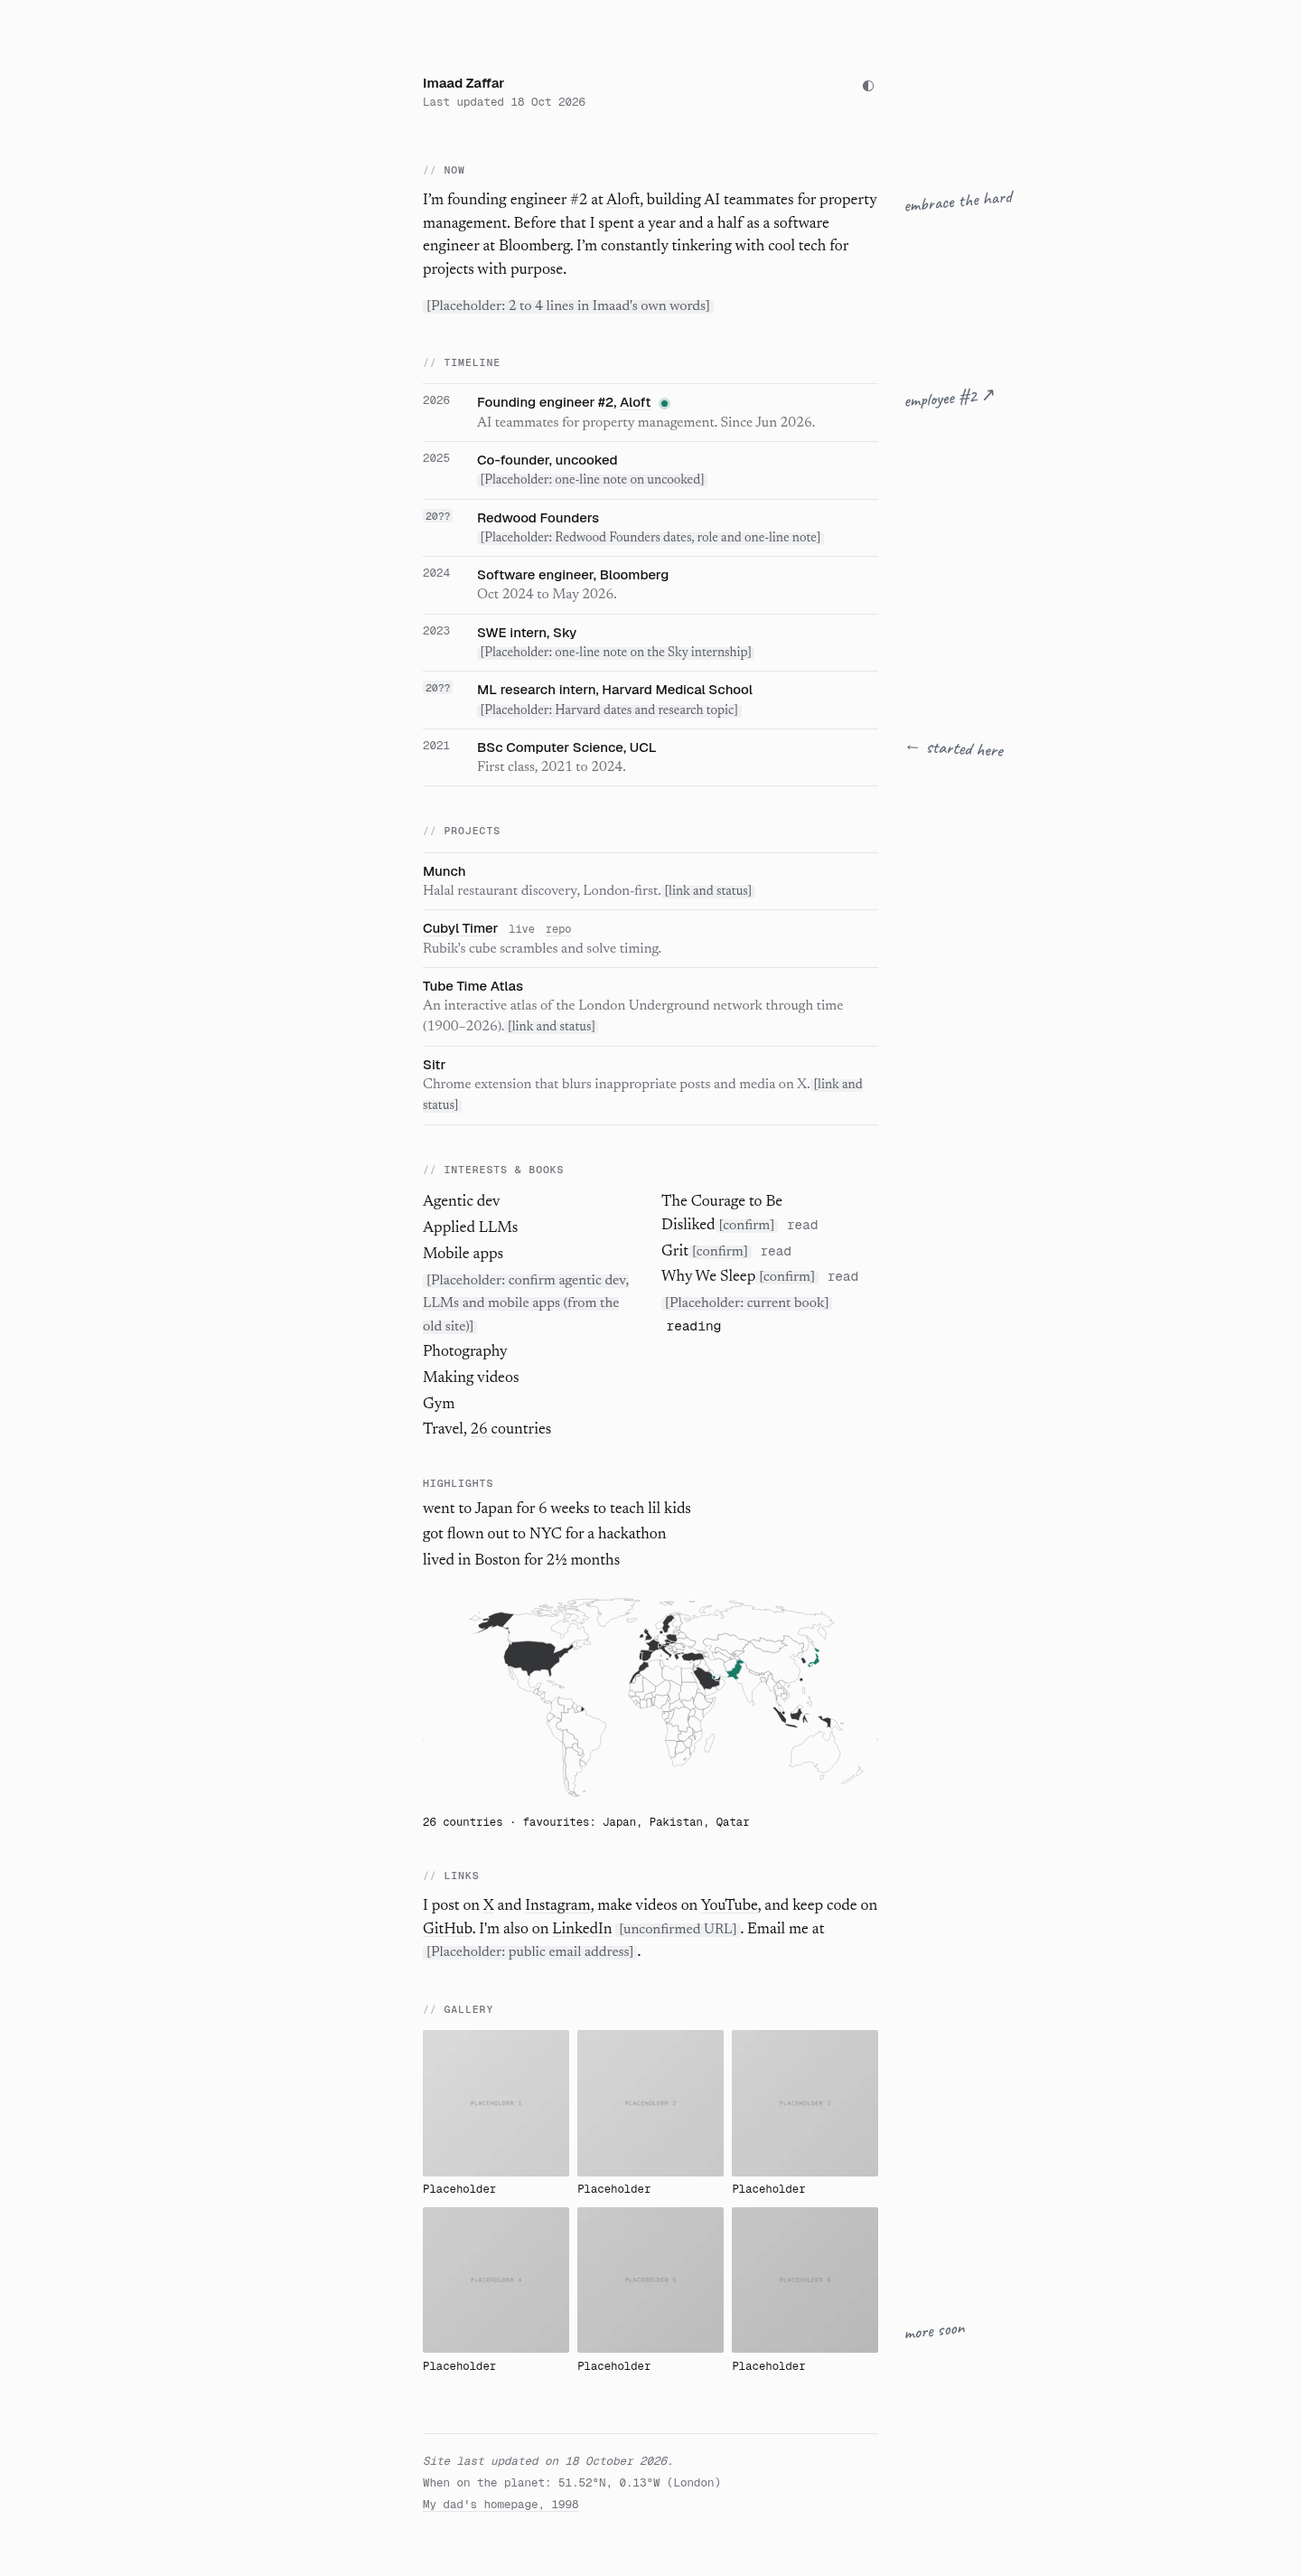
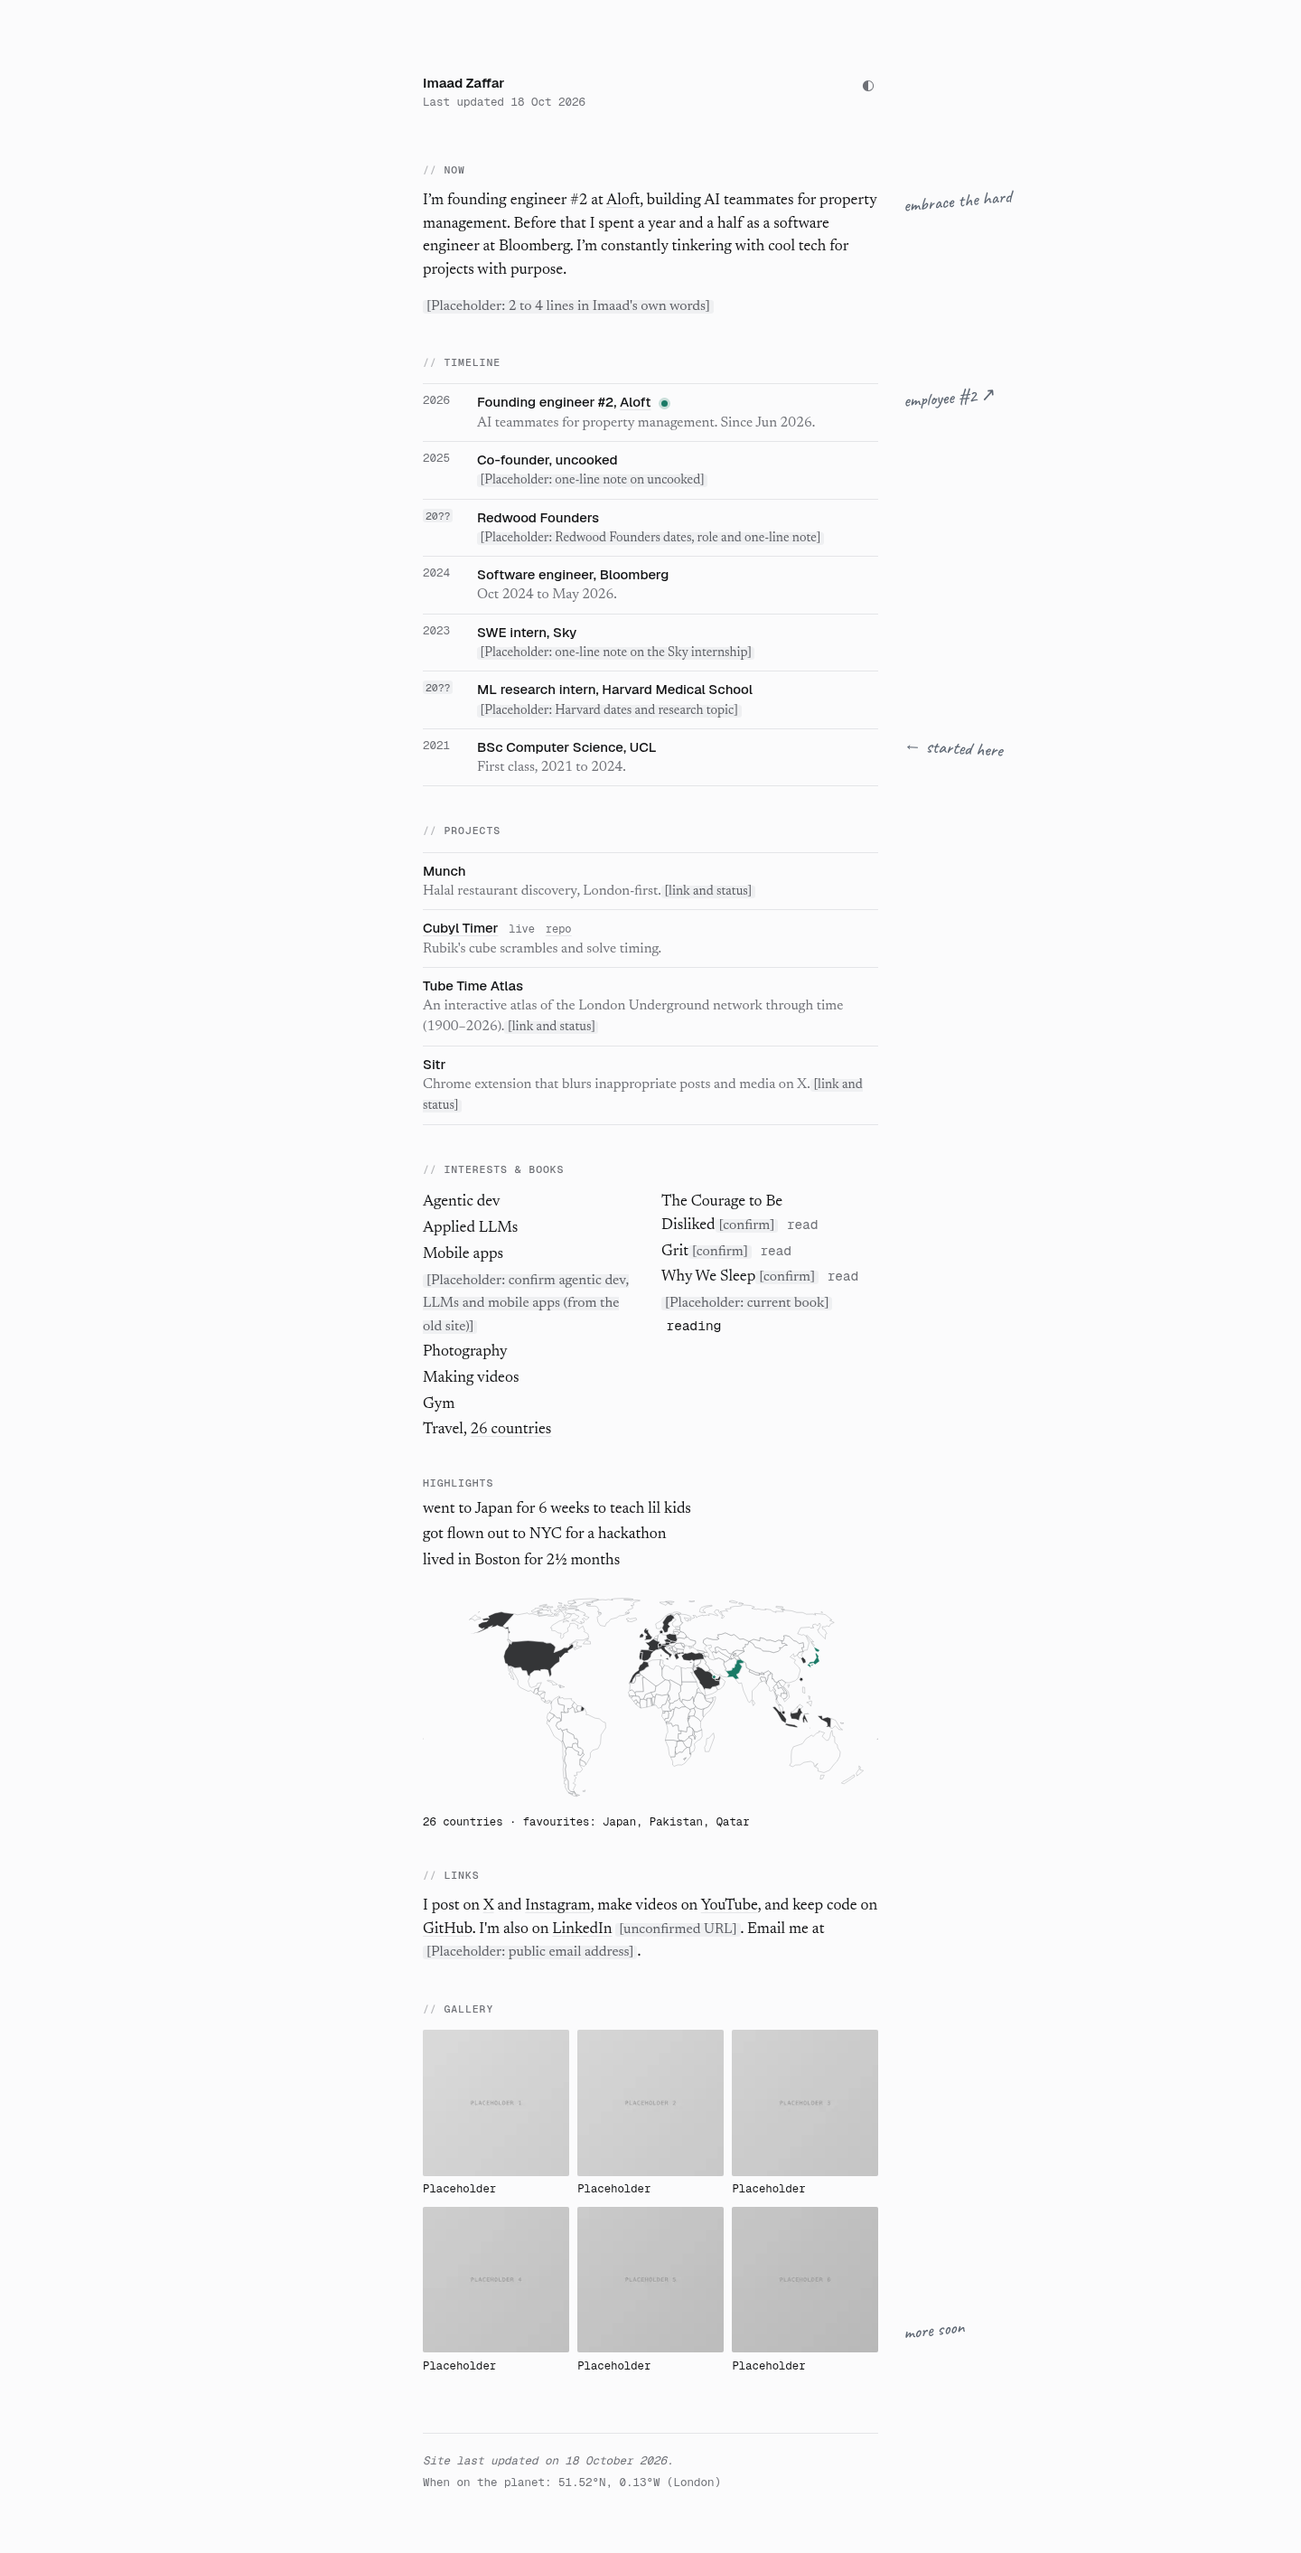
feat(site): remove the dad's homepage footer link

diff --git a/src/styles/global.css b/src/styles/global.css
@@ -116,7 +116,6 @@ figcaption span { color: var(--muted); }
 
 footer { margin-top: 4rem; padding-top: 1.25rem; border-top: 1px solid var(--line); color: var(--muted); }
 footer p { margin: 0 0 0.3rem; }
-footer a { color: var(--muted); }
 
 section, footer { animation: rise 0.6s cubic-bezier(0.2, 0.7, 0.2, 1) both; animation-delay: calc(var(--i, 0) * 70ms); }
 @keyframes rise { from { opacity: 0; transform: translateY(8px); } }
